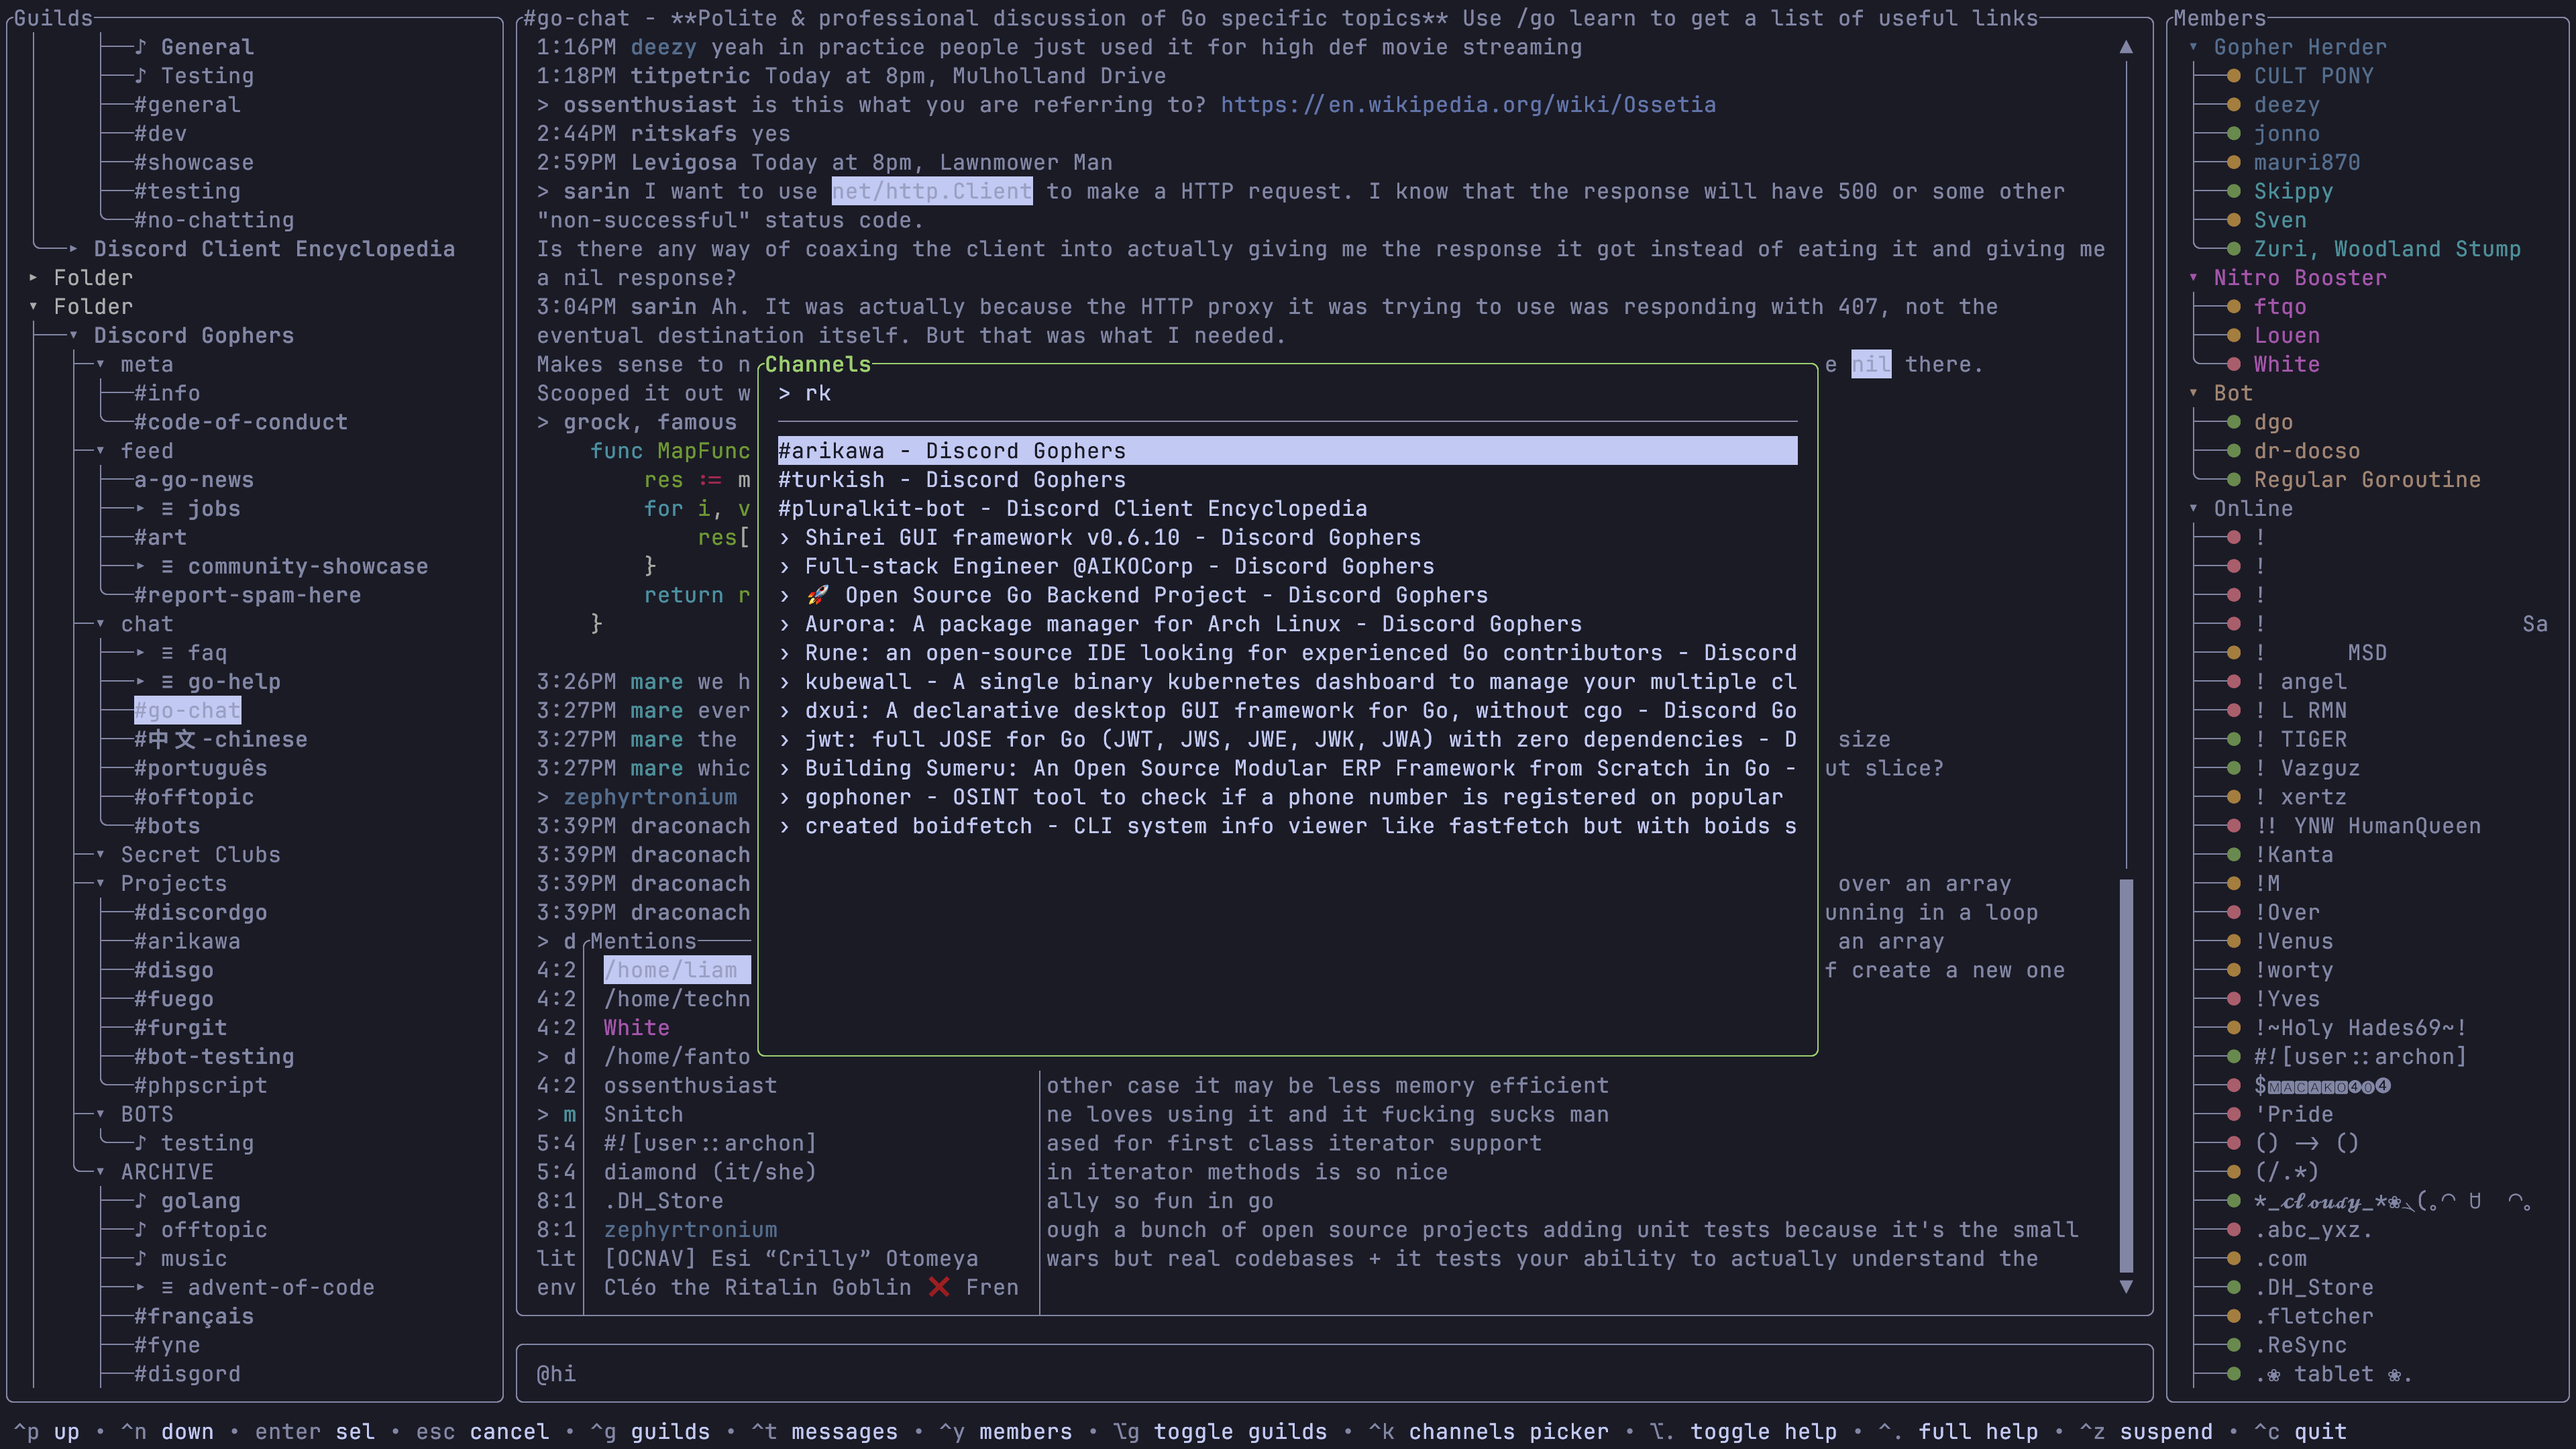
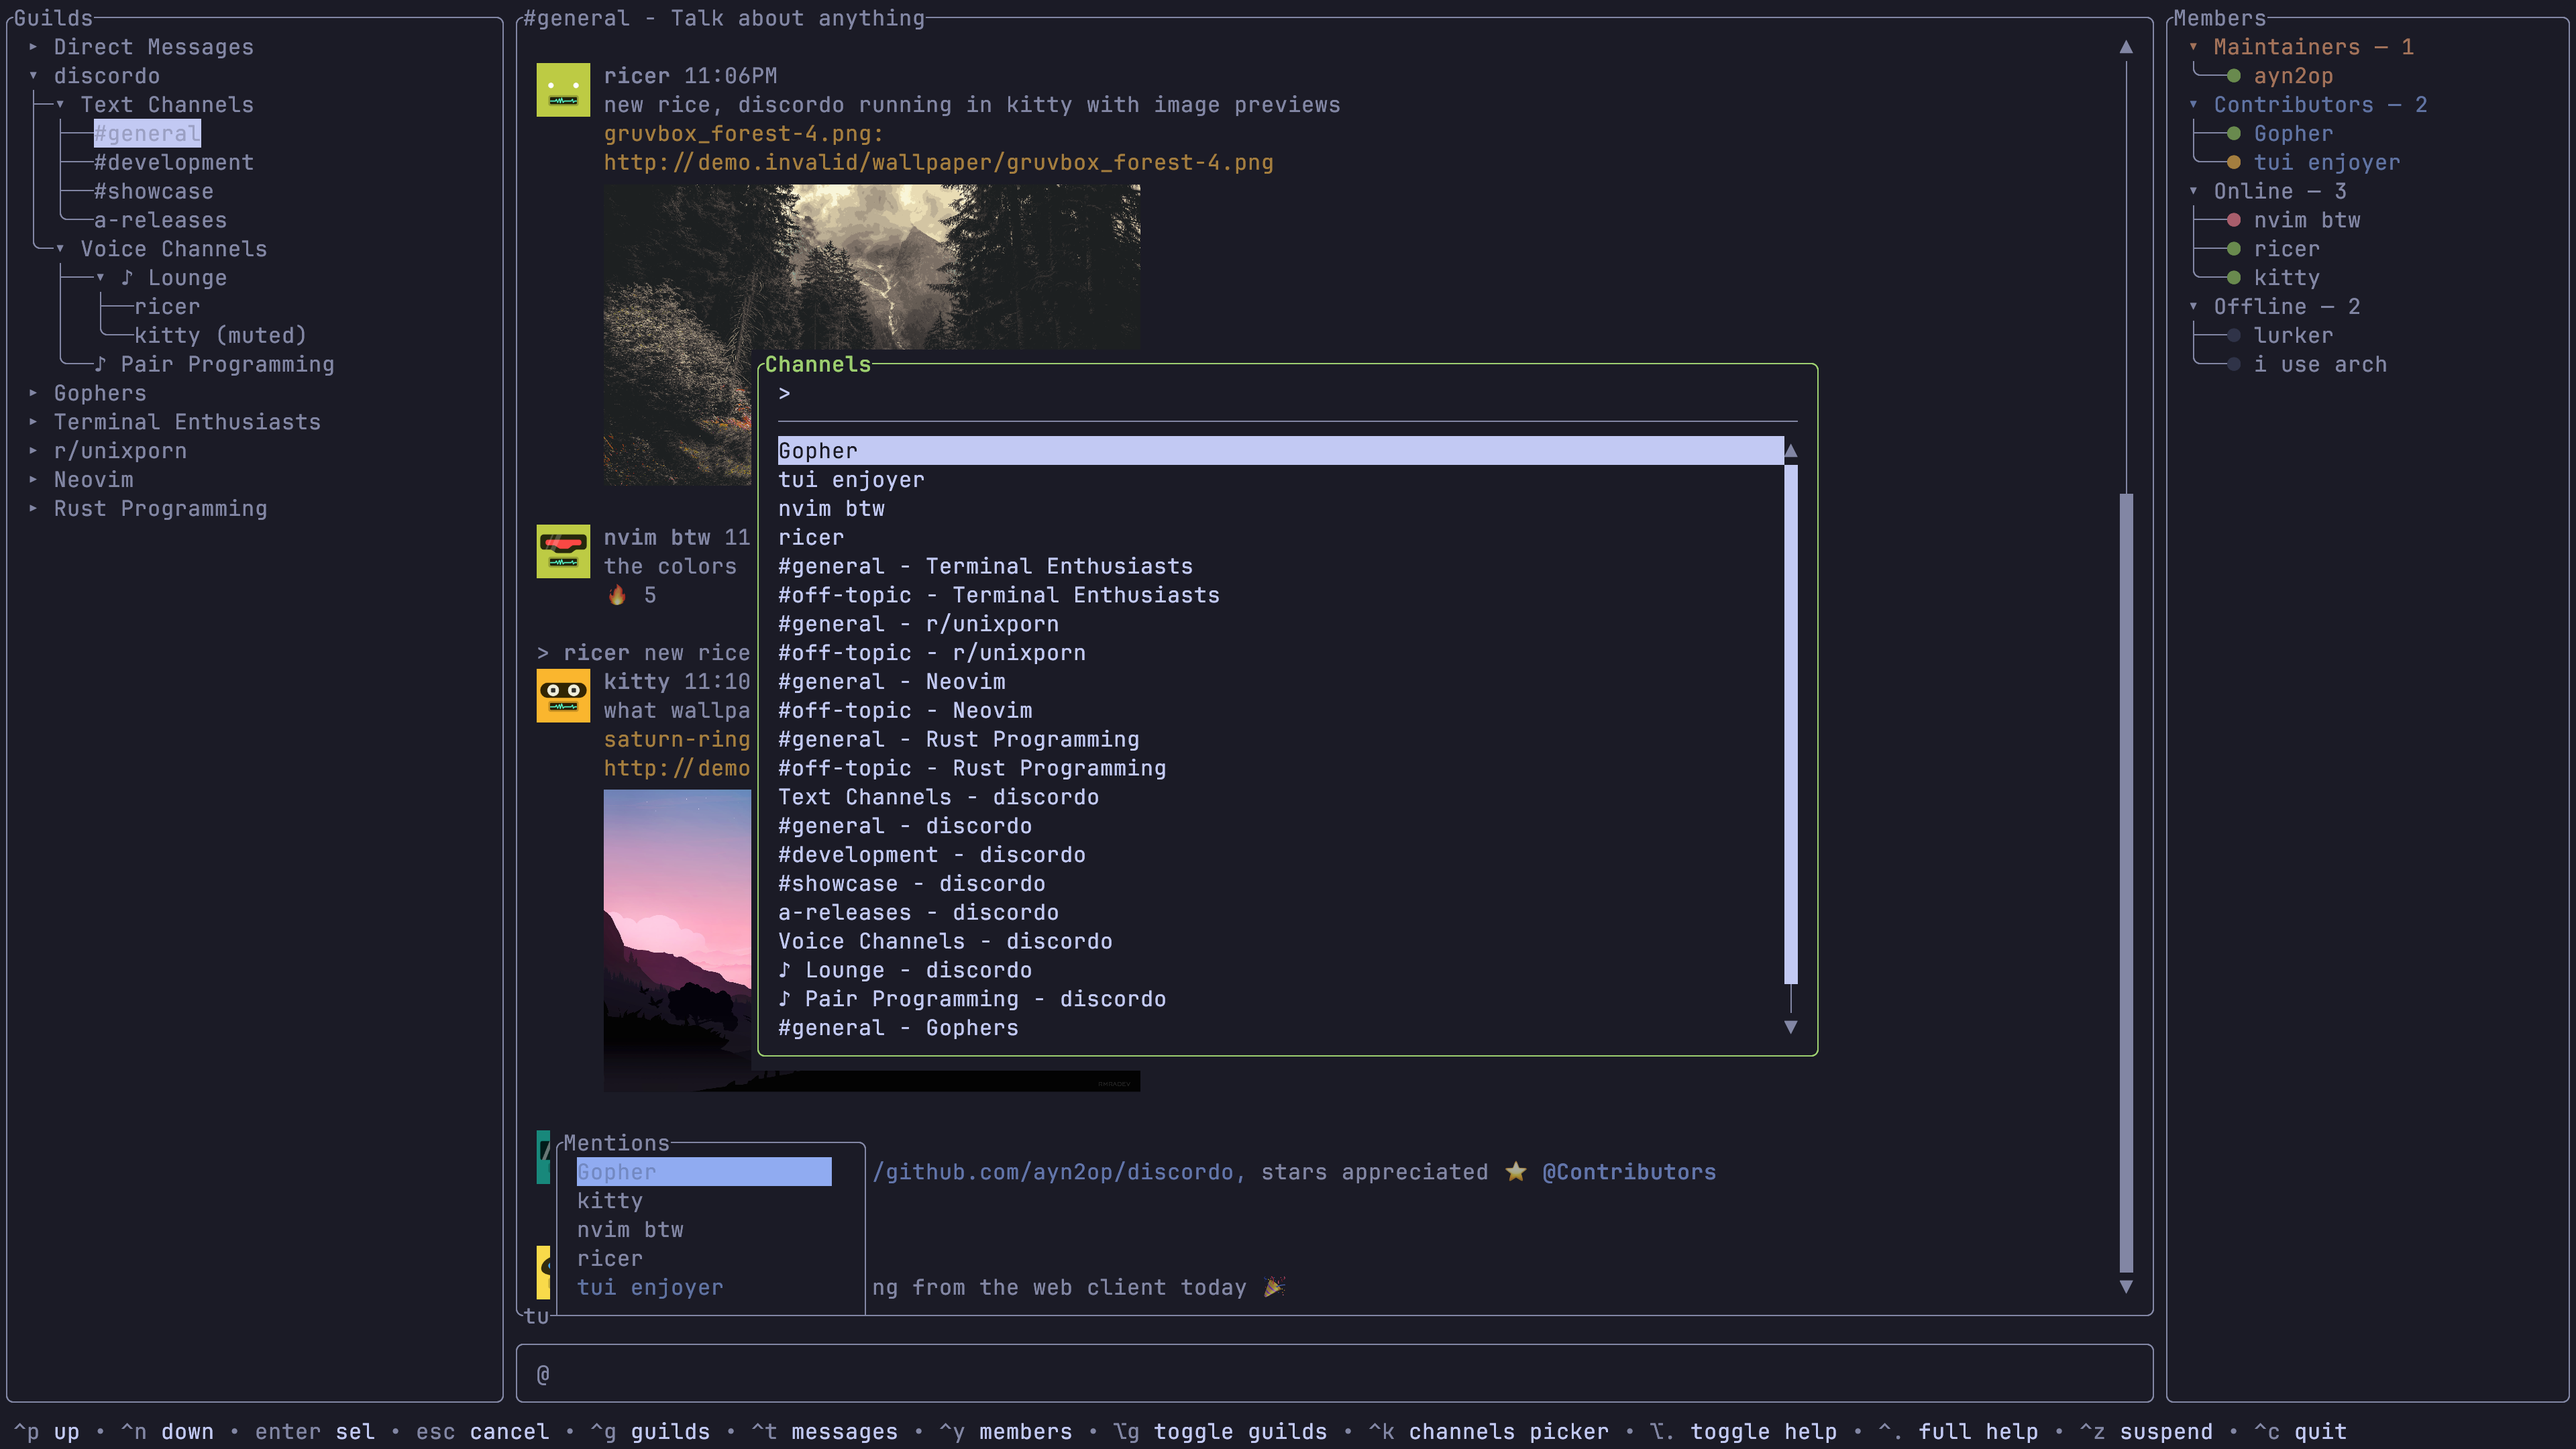
docs(README): update previews

diff --git a/README.md b/README.md
@@ -1,4 +1,4 @@
-# Discordo &middot; [![discord](https://img.shields.io/discord/1297292231299956788?color=5865F2&logo=discord&logoColor=white)](https://discord.com/invite/VzF9UFn2aB) [![ci](https://github.com/ayn2op/discordo/actions/workflows/ci.yml/badge.svg)](https://github.com/ayn2op/discordo/actions/workflows/ci.yml) [![license](https://img.shields.io/github/license/ayn2op/discordo?logo=github)](https://github.com/ayn2op/discordo/blob/master/LICENSE)
+# Discordo &middot; [![discord](https://img.shields.io/discord/1297292231299956788?color=5865F2&logo=discord&logoColor=white)](https://discord.com/invite/VzF9UFn2aB) [![license](https://img.shields.io/github/license/ayn2op/discordo?logo=github)](https://github.com/ayn2op/discordo/blob/master/LICENSE)
 
 Discordo is a lightweight, secure, and feature-rich Discord terminal client.
 
